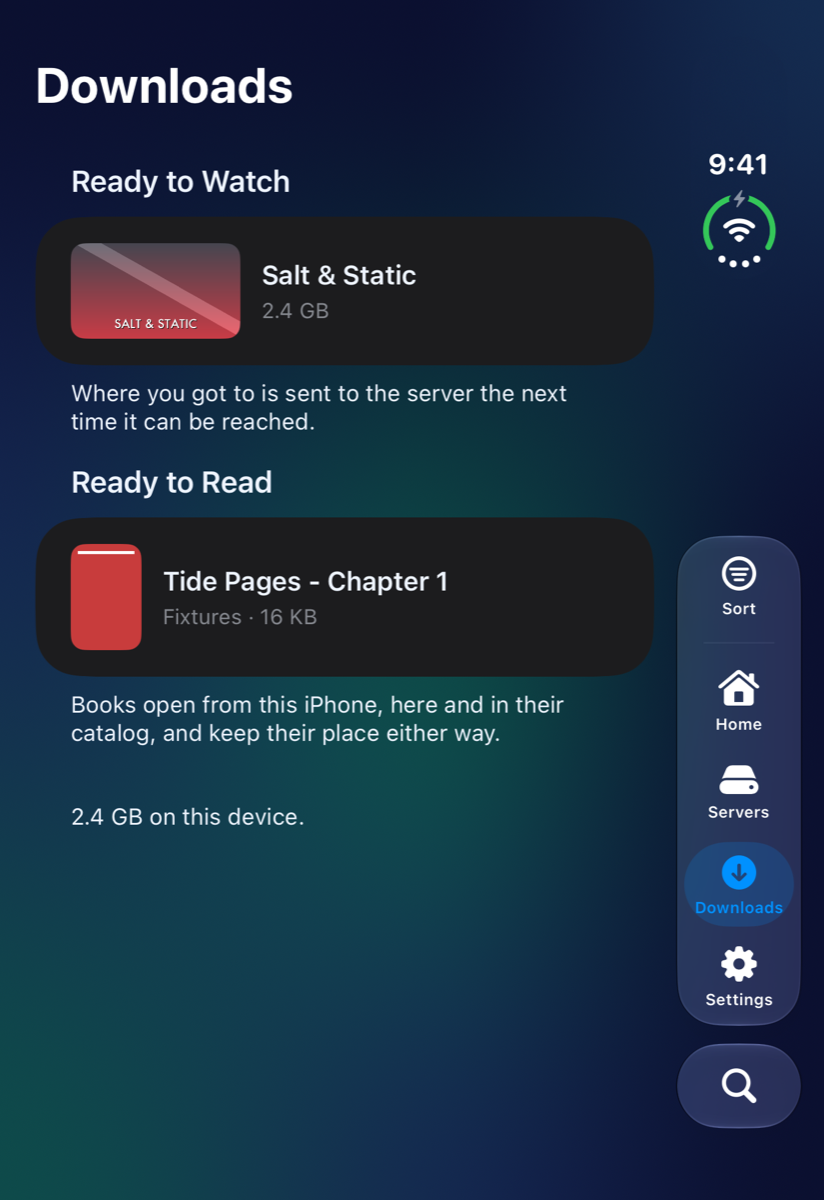
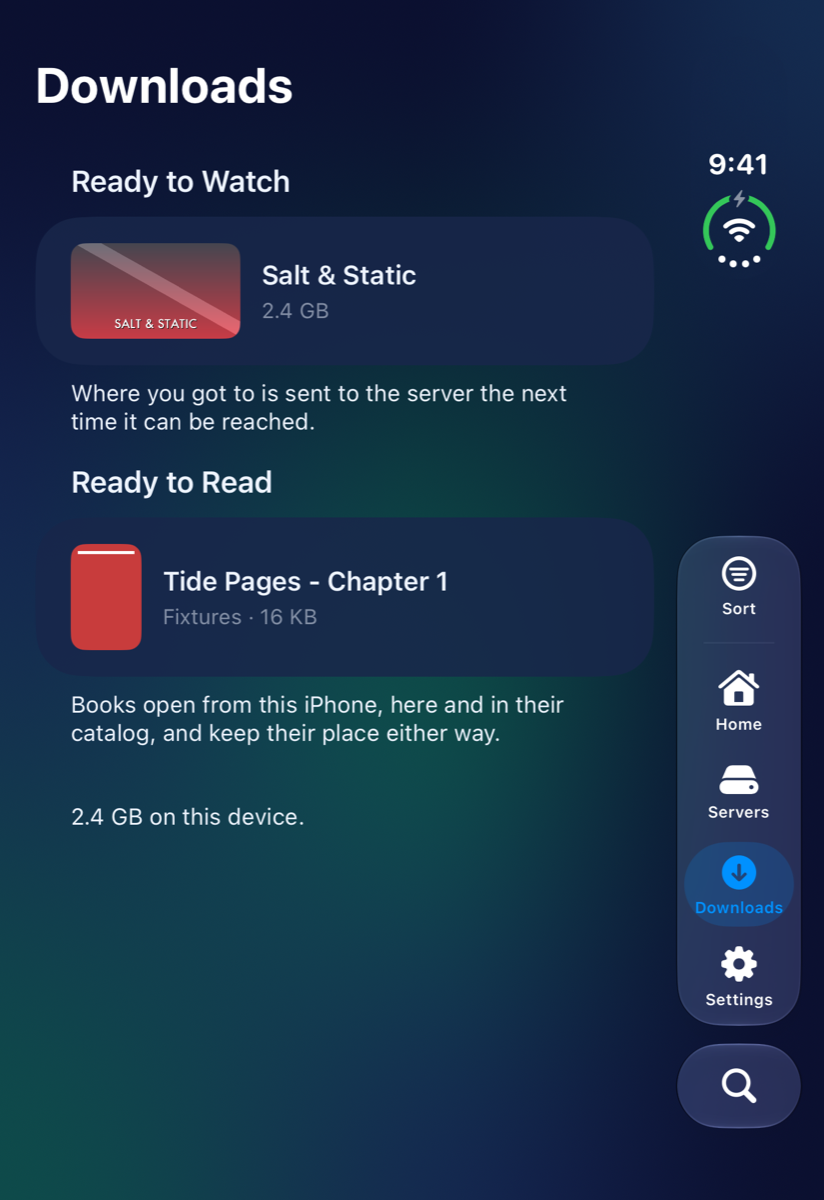
Publish the guide (from 9d16914)

Changed region(s): [[0.0303, 0.4317, 0.8192, 0.5858], [0.0303, 0.1542, 0.8192, 0.3083]]

diff --git a/whats-new.md b/whats-new.md
@@ -12,6 +12,25 @@ The highlights of each MK Plus update since public TestFlight testing began (ver
 
 ## November 2026
 
+### Servers and Downloads match Home
+
+_Version 1.352.0 · 12 November 2026_
+
+- The Servers tab has a large title, like Home and Downloads.
+- Servers' and Downloads' rows take your theme's look, as Home's cards do.
+
+<img src="images/iphone-18-pro-max/servers-tab.png" width="300" alt="The Servers tab on an iPhone 18 Pro Max: a large Servers title, and Shares, Jellyfin and Catalogs as rows on the theme's glass cards">
+
+<details markdown="1">
+<summary>Everything in 1.352.0</summary>
+
+**Changed**
+
+- The Servers tab's title is large, as Home's and Downloads' are.
+- The rows of the Servers and Downloads tabs use your theme's cards, the same as Home's. Settings → Appearance → Item Transparency → Solid still makes them plain.
+
+</details>
+
 ### Two pictures on the open Duo
 
 _Version 1.351.0 · 12 November 2026_

diff --git a/Settings-General.md b/Settings-General.md
@@ -54,7 +54,7 @@ A Home's theme overrides your iPhone's light or dark while it's on the screen.
 
 **Item Transparency** says how see-through rows and cards are, on every screen.
 
-- **Per Screen** leaves each screen as it is: Settings' rows and Home's cards take the theme's look, and the Servers list is solid.
+- **Per Screen** leaves each screen as it is: Settings' rows, Home's cards and the rows of the **Servers** and **Downloads** tabs take the theme's look.
 - **Translucent** gives every row and card the theme's frosted look.
 - **Solid** gives them all the system's plain fill.
 
